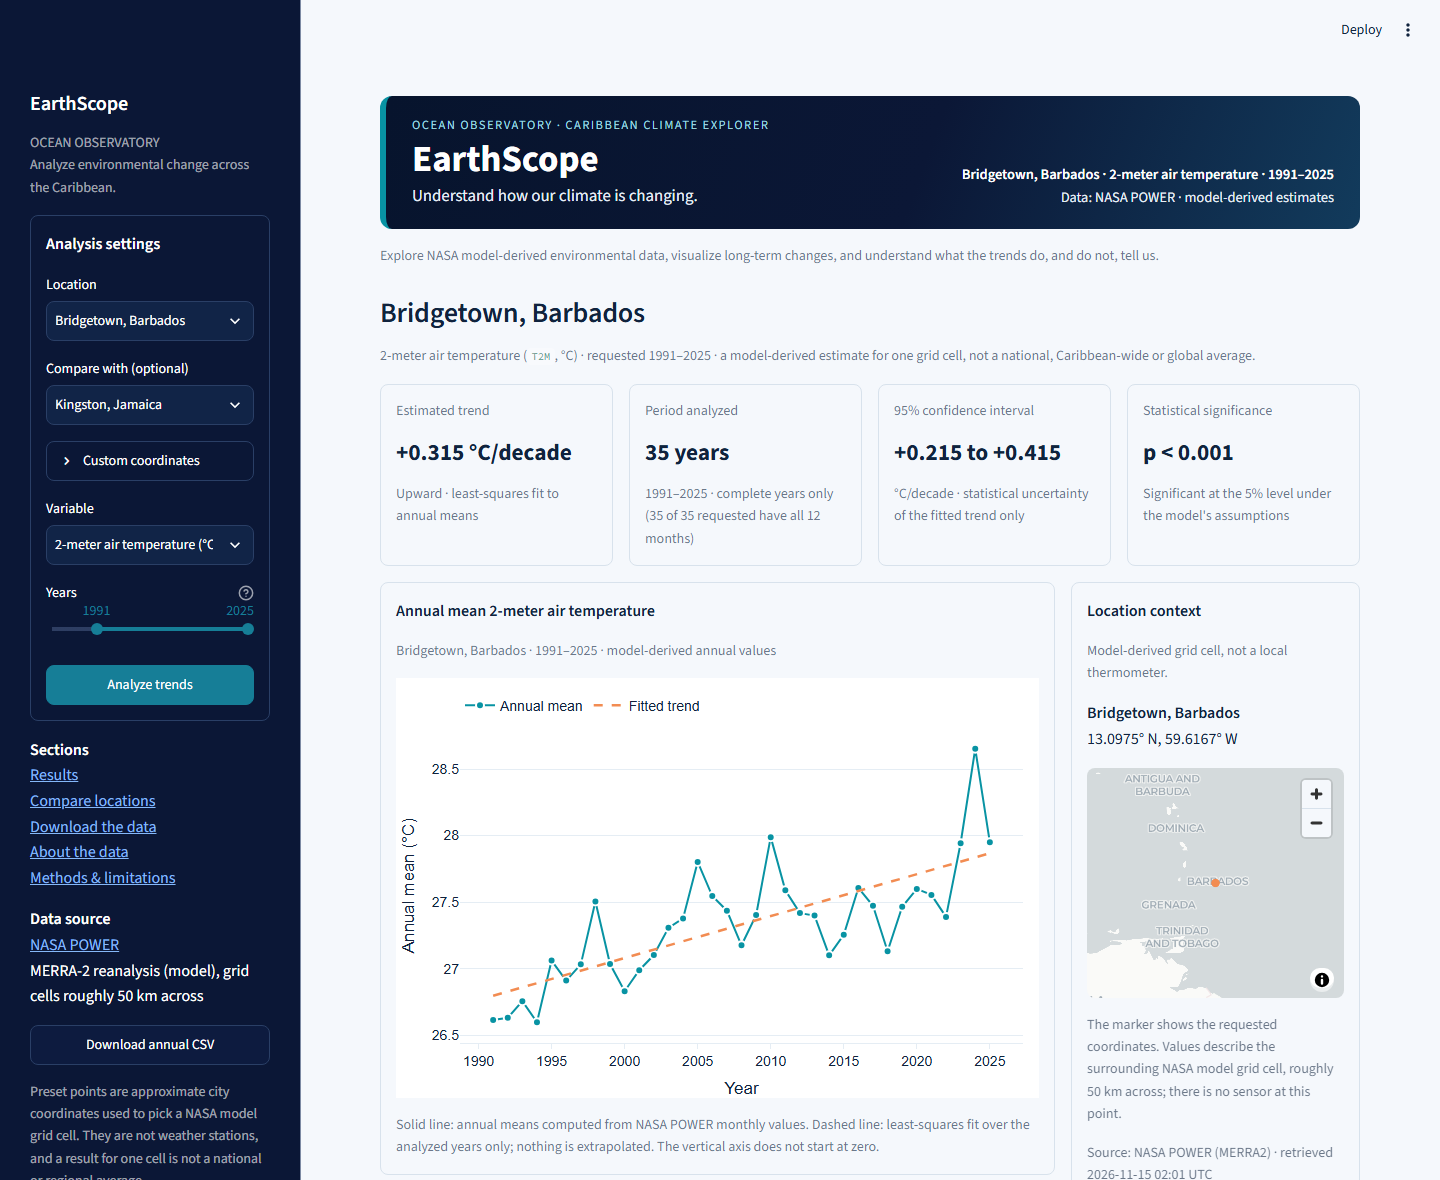
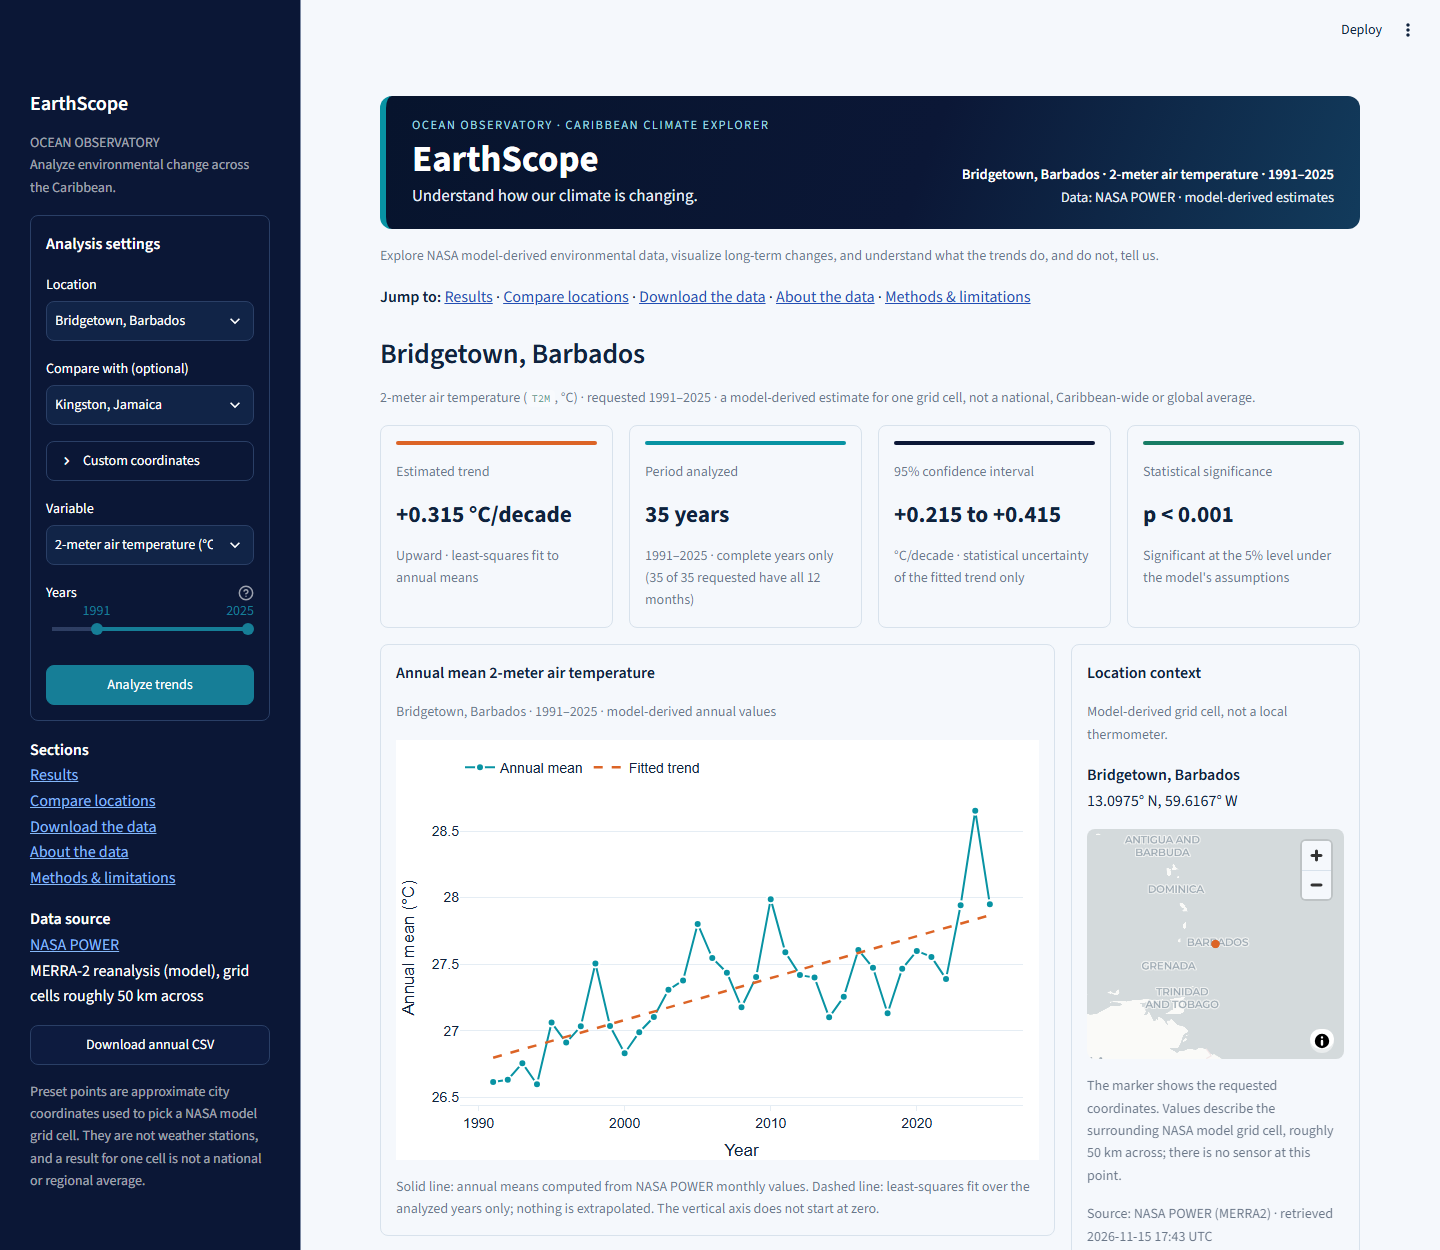
Polish interface: KPI accents, navigation, contrast

diff --git a/app.py b/app.py
@@ -16,7 +16,7 @@ import pandas as pd
 import streamlit as st
 
 from earthscope import config
-from earthscope.charts import comparison_figure, trend_figure
+from earthscope.charts import SERIES_TEAL, TREND_CORAL, TREND_NEUTRAL, comparison_figure, trend_figure
 from earthscope.explanations import (
     AUDIENCES, GLOSSARY, LIMITATIONS, describe_agreement, describe_trend,
     explain_for_audience, format_pvalue, format_signed,
@@ -93,9 +93,18 @@ def format_coord(lat: float, lon: float) -> str:
     return f"{abs(lat):.4f}° {'N' if lat >= 0 else 'S'}, {abs(lon):.4f}° {'E' if lon >= 0 else 'W'}"
 
 
-def kpi_card(column, label: str, value: str, note: str) -> None:
-    """One summary card. Values wrap instead of being cut off."""
+ACCENT_POSITIVE = "#187D65"  # result is statistically significant
+ACCENT_CAUTION = "#A96520"  # not significant, or not available
+ACCENT_NAVY = "#0B1736"
+
+
+def kpi_card(column, label: str, value: str, note: str, accent: str) -> None:
+    """One summary card with a thin colour accent. Values wrap instead of being cut off.
+
+    The accent is decoration only: the value and note always carry the meaning in text.
+    """
     with column.container(border=True, height="stretch"):
+        st.html(f'<div style="height:4px;border-radius:4px;background:{accent};"></div>')
         st.caption(label)
         st.html(
             '<div style="font-size:1.45rem;font-weight:700;line-height:1.25;'
@@ -114,11 +123,13 @@ def kpi_row(a: Analysis, rate_unit: str, requested_years: int) -> None:
         kpi_card(
             cols[0], "Estimated trend", f"{format_signed(t.slope_per_decade)} {rate_unit}/decade",
             f"{direction} · least-squares fit to annual means",
+            TREND_CORAL if t.slope > 0 else TREND_NEUTRAL,
         )
         kpi_card(
             cols[2], "95% confidence interval",
             f"{format_signed(low)} to {format_signed(high)}",
             f"{rate_unit}/decade · statistical uncertainty of the fitted trend only",
+            ACCENT_NAVY,
         )
         p_text = format_pvalue(t.pvalue)
         kpi_card(
@@ -126,15 +137,17 @@ def kpi_row(a: Analysis, rate_unit: str, requested_years: int) -> None:
             f"p {p_text}" if p_text[0] in "<>" else f"p = {p_text}",
             "Significant at the 5% level under the model's assumptions" if t.significant
             else "Not statistically significant at the 5% level",
+            ACCENT_POSITIVE if t.significant else ACCENT_CAUTION,
         )
     else:
-        kpi_card(cols[0], "Estimated trend", "N/A", "Insufficient data for trend inference")
-        kpi_card(cols[2], "95% confidence interval", "N/A", "Not available")
-        kpi_card(cols[3], "Statistical significance", "N/A", "Not available")
+        kpi_card(cols[0], "Estimated trend", "N/A", "Insufficient data for trend inference", ACCENT_CAUTION)
+        kpi_card(cols[2], "95% confidence interval", "N/A", "Not available", ACCENT_CAUTION)
+        kpi_card(cols[3], "Statistical significance", "N/A", "Not available", ACCENT_CAUTION)
     span = f"{t.first_year}–{t.last_year}" if t.n else "no complete years"
     kpi_card(
         cols[1], "Period analyzed", f"{t.n} year{'s' if t.n != 1 else ''}",
         f"{span} · complete years only ({t.n} of {requested_years} requested have all 12 months)",
+        SERIES_TEAL,
     )
 
 
@@ -230,6 +243,10 @@ if compare_name != "None":
 context_line = f"{selected[0].name} · {variable.label} · {start_year}–{end_year}"
 st.html(
     f"""
+<style>
+  .es-context {{ text-align: right; }}
+  @media (max-width: 900px) {{ .es-context {{ text-align: left; }} }}
+</style>
 <div style="background:linear-gradient(110deg,#07142D 0%,#0B1736 55%,#123B5C 100%);
             color:#FFFFFF;border-radius:12px;padding:20px 26px;display:flex;flex-wrap:wrap;
             gap:10px 28px;align-items:flex-end;justify-content:space-between;
@@ -240,7 +257,7 @@ st.html(
     <h1 style="margin:2px 0 2px 0;padding:0;font-size:2.3rem;line-height:1.15;color:#FFFFFF;">EarthScope</h1>
     <div style="font-size:1.05rem;color:#E6EEF7;">Understand how our climate is changing.</div>
   </div>
-  <div style="text-align:right;font-size:0.9rem;color:#E6EEF7;">
+  <div class="es-context" style="font-size:0.9rem;color:#E6EEF7;">
     <div style="font-weight:600;color:#FFFFFF;">{html.escape(context_line)}</div>
     <div>Data: NASA POWER · model-derived estimates</div>
   </div>
@@ -271,6 +288,12 @@ if not analyses:
         "substitutes sample or estimated values for NASA data."
     )
     st.stop()
+
+nav = ["[Results](#results)"]
+if len(analyses) > 1:
+    nav.append("[Compare locations](#compare)")
+nav += ["[Download the data](#download)", "[About the data](#about-the-data)", "[Methods & limitations](#methods)"]
+st.markdown("**Jump to:** " + " · ".join(nav))
 
 primary = analyses[0]
 unit = primary.monthly.unit or variable.unit
@@ -321,7 +344,7 @@ else:
         st.markdown(f"**{m.location}**  \n{format_coord(m.latitude, m.longitude)}")
         st.map(
             pd.DataFrame({"lat": [m.latitude], "lon": [m.longitude]}),
-            latitude="lat", longitude="lon", zoom=4, size=20000, color="#F28C52", height=230,
+            latitude="lat", longitude="lon", zoom=4, size=20000, color=TREND_CORAL, height=230,
         )
         st.caption(
             "The marker shows the requested coordinates. Values describe the surrounding "

diff --git a/earthscope/charts.py b/earthscope/charts.py
@@ -12,7 +12,7 @@ import plotly.graph_objects as go
 from .statistics import TrendResult
 
 SERIES_TEAL = "#0893A3"  # model-derived annual values
-TREND_CORAL = "#F28C52"  # fitted line with a positive slope
+TREND_CORAL = "#DC6426"  # fitted line with a positive slope (3.6:1 against white)
 TREND_NEUTRAL = "#34465B"  # fitted line with a zero or negative slope
 COMPARE_VIOLET = "#6250D6"  # second location in comparison charts
 INK = "#10233D"
@@ -49,7 +49,7 @@ def _layout(fig: go.Figure, variable_label: str, unit: str) -> go.Figure:
         margin=dict(l=64, r=16, t=48, b=12),
         height=420,
     )
-    fig.update_xaxes(title_text="Year", tickformat="d", nticks=9, showgrid=False, linecolor=GRID, ticks="outside", tickcolor=GRID)
+    fig.update_xaxes(title_text="Year", tickformat="d", nticks=6, tickangle=0, showgrid=False, linecolor=GRID, ticks="outside", tickcolor=GRID)
     # The card heading names the variable, so the axis title stays short and readable.
     fig.update_yaxes(
         title_text=f"Annual mean ({unit})", gridcolor=GRID, zeroline=False, automargin=True,
